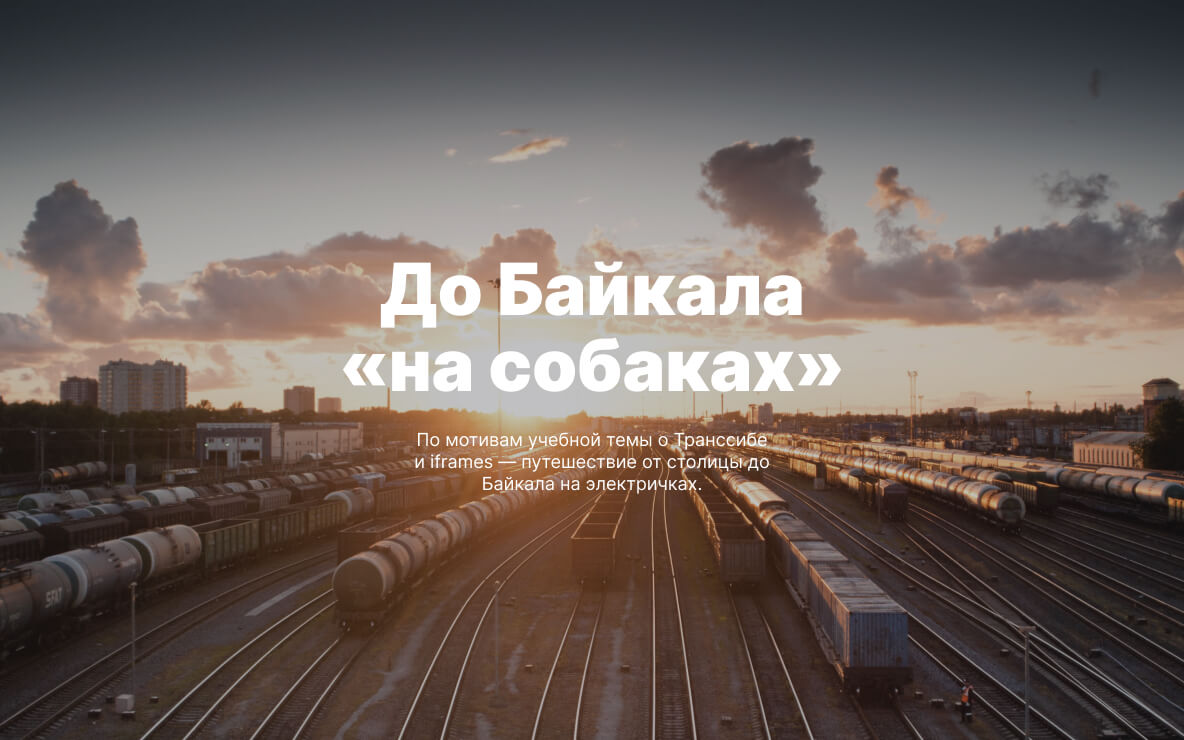
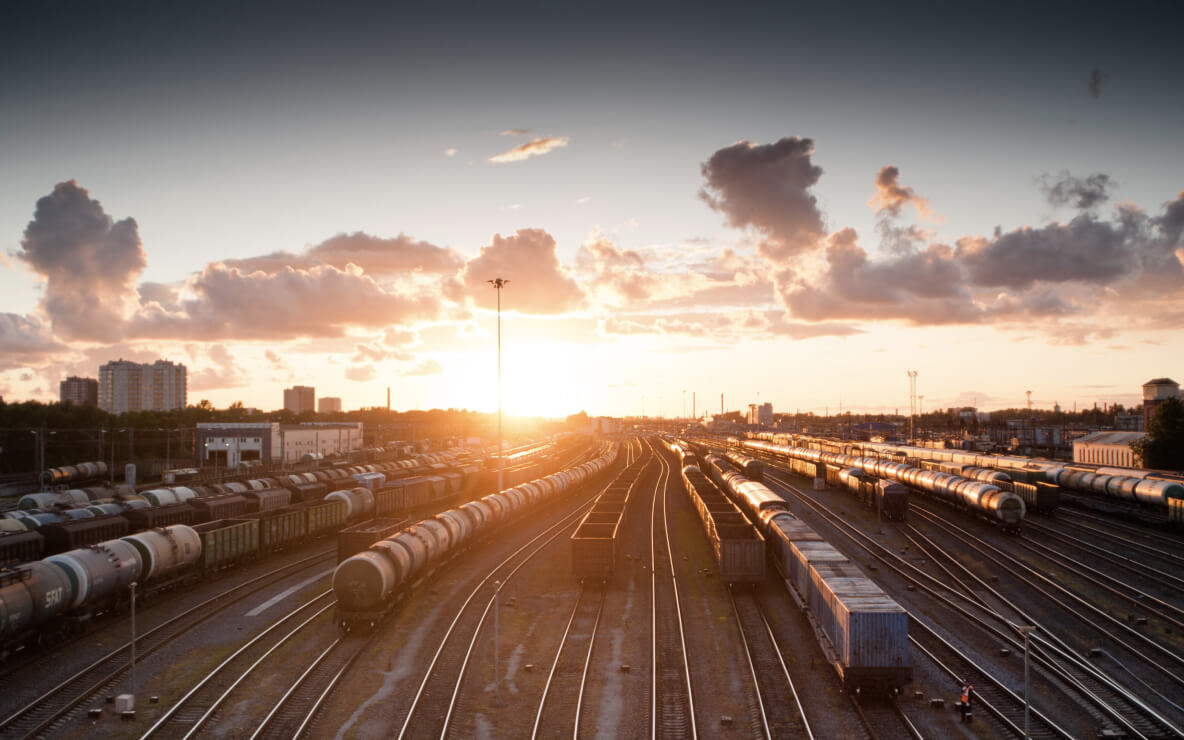
feat: add section 'cover'

diff --git a/index.html b/index.html
@@ -30,7 +30,7 @@
 
 
     <main class="content">
-      <section class="lead">
+      <!-- <section class="lead">
         <h1 class="lead__title">Путешествия по России</h1>
 
         <p class="lead__subtitle">Настоящая страна не в выпусках новостей, а здесь.</p>
@@ -82,7 +82,7 @@
 
           <div class="places__website">
             <p class="places__url-heading">URL</p>
-            <a href="http://park-kosa.ru" class="places__link">park-kosa.ru</a>
+            <a href="http://park-kosa.ru" class="places__link" target="_blank">park-kosa.ru</a>
           </div>
 
           <div class="places__text">
@@ -102,7 +102,7 @@
 
           <div class="places__website">
             <p class="places__url-heading">URL</p>
-            <a href="https://yourshot.nationalgeographic.com/photos/?keywords=kolskiy" class="places__link">National Geographic</a>
+            <a href="https://yourshot.nationalgeographic.com/photos/?keywords=kolskiy" class="places__link" target="_blank">National Geographic</a>
           </div>
 
           <div class="places__text">
@@ -122,7 +122,7 @@
 
           <div class="places__website">
             <p class="places__url-heading">URL</p>
-            <a href="https://www.facebook.com/vera.bashmakova/posts/10156011613718822" class="places__link">Facebook</a>
+            <a href="https://www.facebook.com/vera.bashmakova/posts/10156011613718822" class="places__link" target="_blank">Facebook</a>
           </div>
 
           <div class="places__text">
@@ -142,7 +142,7 @@
 
           <div class="places__website">
             <p class="places__url-heading">URL</p>
-            <a href="https://vk.com/baikalmile" class="places__link">https://vk.com/baikalmile</a>
+            <a href="https://vk.com/baikalmile" class="places__link" target="_blank">https://vk.com/baikalmile</a>
           </div>
 
           <div class="places__text">
@@ -162,7 +162,7 @@
 
           <div class="places__website">
             <p class="places__url-heading">URL</p>
-            <a href="http://vodlozero.ru" class="places__link">http://vodlozero.ru/</a>
+            <a href="http://vodlozero.ru" class="places__link" target="_blank">http://vodlozero.ru/</a>
           </div>
 
           <div class="places__text">
@@ -171,6 +171,17 @@
             </p>
           </div>
         </div>
+      </section> -->
+
+
+      <section class="cover">
+        <a href="https://stampsy.com/na-elektrichkakh-do-baikala" class="cover__link cover__background" target="_blank">
+          <div class="cover__overlay"></div>
+
+          <h2 class="cover__title">До Байкала «на собаках»</h2>
+
+          <p class="cover__subtitle">По мотивам учебной темы о Транссибе и iframes — путешествие от столицы до Байкала на электричках.</p>
+        </a>
       </section>
     </main>
   </div>

diff --git a/pages/index.css b/pages/index.css
@@ -46,5 +46,16 @@
 @import url(../blocks/places/__text/places__text.css);
 @import url(../blocks/places/__paragraph/places__paragraph.css);
 
+/* Section: cover */
+@import url(../blocks/cover/cover.css);
+@import url(../blocks/cover/__link/cover__link.css);
+@import url(../blocks/cover/__overlay/cover__overlay.css);
+@import url(../blocks/cover/__background/cover__background.css);
+@import url(../blocks/cover/__title/cover__title.css);
+@import url(../blocks/cover/__subtitle/cover__subtitle.css);
+
+/* Section: footer */
+@import url();
+
 /* Section:  */
 @import url();

diff --git a/blocks/cover/__background/cover__background.css b/blocks/cover/__background/cover__background.css
@@ -1,0 +1,12 @@
+.cover__background {
+  height: 740px;
+  background-image: url(../../../images/cover-trains.jpg);
+  background-size: cover;
+  background-position: center;
+  background-repeat: no-repeat;
+  display: flex;
+  flex-direction: column;
+  justify-content: center;
+  align-items: center;
+  position: relative;
+}

diff --git a/blocks/cover/__overlay/cover__overlay.css b/blocks/cover/__overlay/cover__overlay.css
@@ -1,0 +1,14 @@
+.cover__overlay {
+  width: 100%;
+  height: 100%;
+  position: absolute;
+  top: 0;
+  left: 0;
+  background-color: #2a2c2f;
+  opacity: .3;
+  transition: opacity 1s ease;
+}
+
+.cover__overlay:hover {
+  opacity: .8;
+}

diff --git a/blocks/cover/__title/cover__title.css b/blocks/cover/__title/cover__title.css
@@ -1,0 +1,11 @@
+.cover__title {
+  box-sizing: border-box;
+  margin: 0 0 32px;
+  padding: 0;
+  max-width: 560px;
+  font-weight: 900;
+  font-size: 72px;
+  line-height: 76px;
+  text-align: center;
+  z-index: 10;
+}

diff --git a/blocks/cover/__subtitle/cover__subtitle.css b/blocks/cover/__subtitle/cover__subtitle.css
@@ -1,0 +1,10 @@
+.cover__subtitle {
+  box-sizing: border-box;
+  margin: 0;
+  padding: 0;
+  max-width: 360px;
+  font-size: 18px;
+  line-height: 22px;
+  text-align: center;
+  z-index: 10;
+}

diff --git a/blocks/cover/__link/cover__link.css b/blocks/cover/__link/cover__link.css
@@ -1,0 +1,6 @@
+.cover__link {
+  display: inline-block;
+  width: 100%;
+  text-decoration: none;
+  color: #fff;
+}

diff --git a/blocks/cover/cover.css b/blocks/cover/cover.css
@@ -1,0 +1,5 @@
+.cover {
+  box-sizing: border-box;
+  margin: 0;
+  padding: 0 48px 92px;
+}
